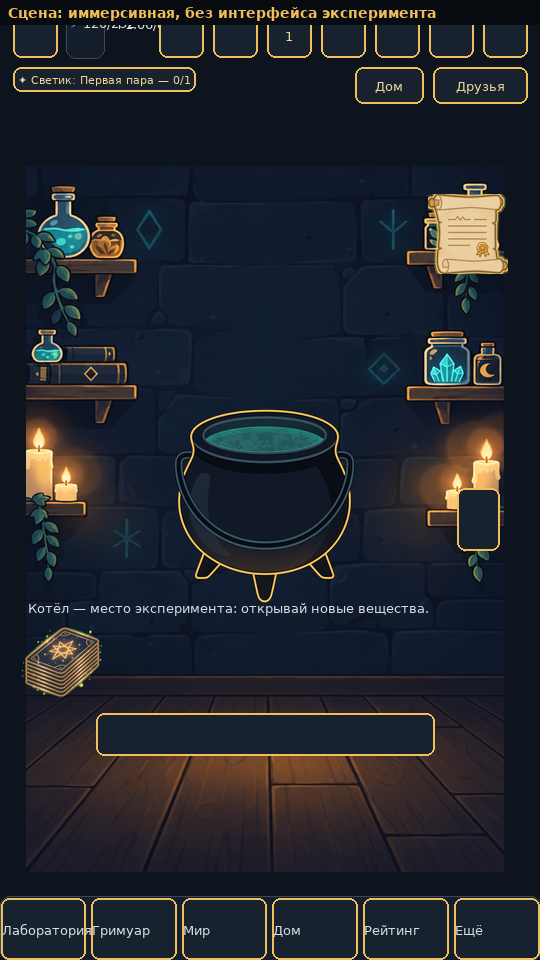
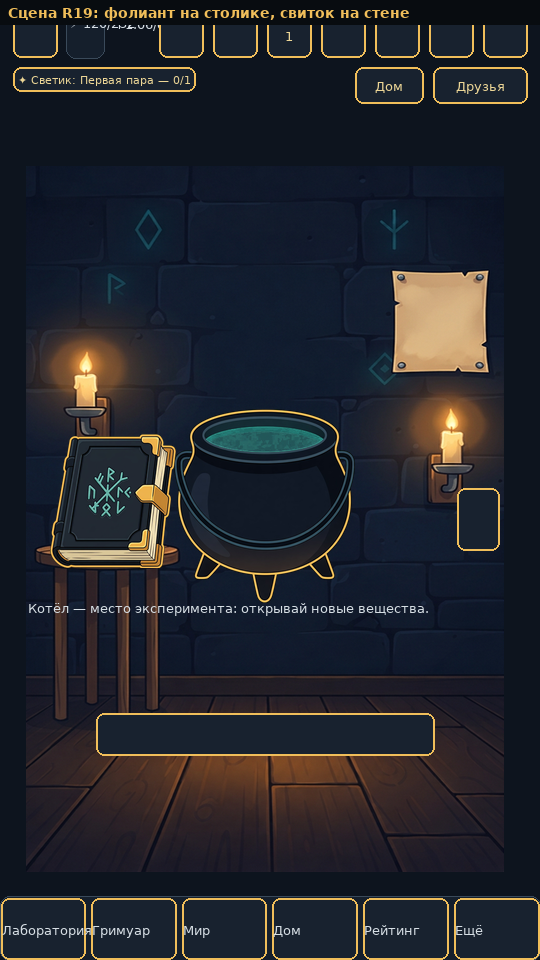
R19: сцена без полок — столик с фолиантом (тап = Аркан), свиток приклеен к стене в фоне — selftest 1038/1038

diff --git a/tools/geom_composite.py b/tools/geom_composite.py
@@ -32,6 +32,7 @@ PROP_SPRITES = {
     "Prop_deck": "deck.png",
     "Prop_scroll": "scroll.png",
     "Prop_cauldron": "cauldron.png",
+    "Prop_tome": "tome.png",
 }
 
 BG = (13, 20, 30)
